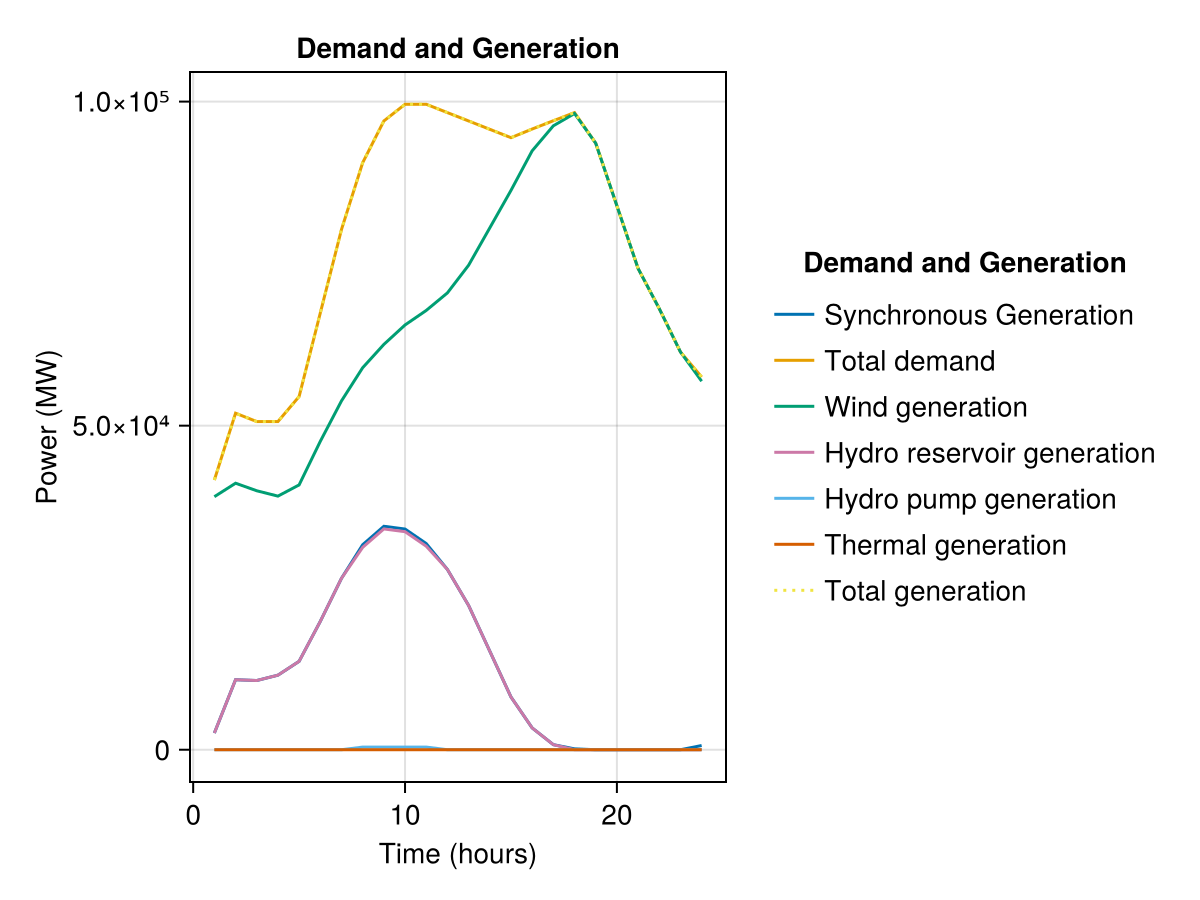
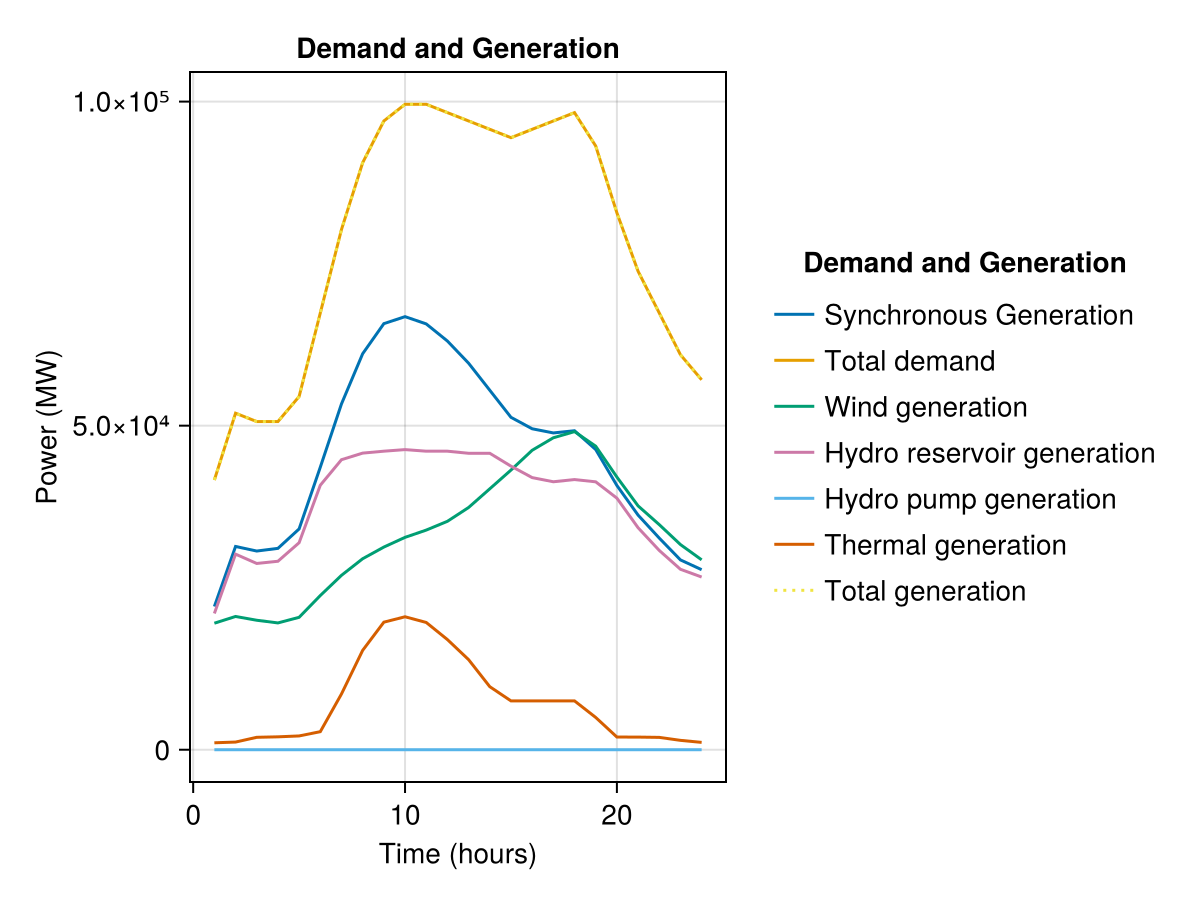
working_version_4_16_2026
this version seems to work with renewable generation as not dispatchable generators (it doesn't include solar)

diff --git a/Nordic_test_system_together.m b/Nordic_test_system_together.m
@@ -4,8 +4,7 @@ mpc.baseKG=17286;
 mpc.frequency1=50;
 mpc.rocof=0.5;
 mpc.deltaf=1;
-mpc.wind=98160;
-mpc.solar=36731;
+
 
 %% bus data
 %	bus_i	type		Pd		Qd		  Gs	 Bs	   area		Vm	   Va		   baseKV	zone	  Vmax			 Vmin
